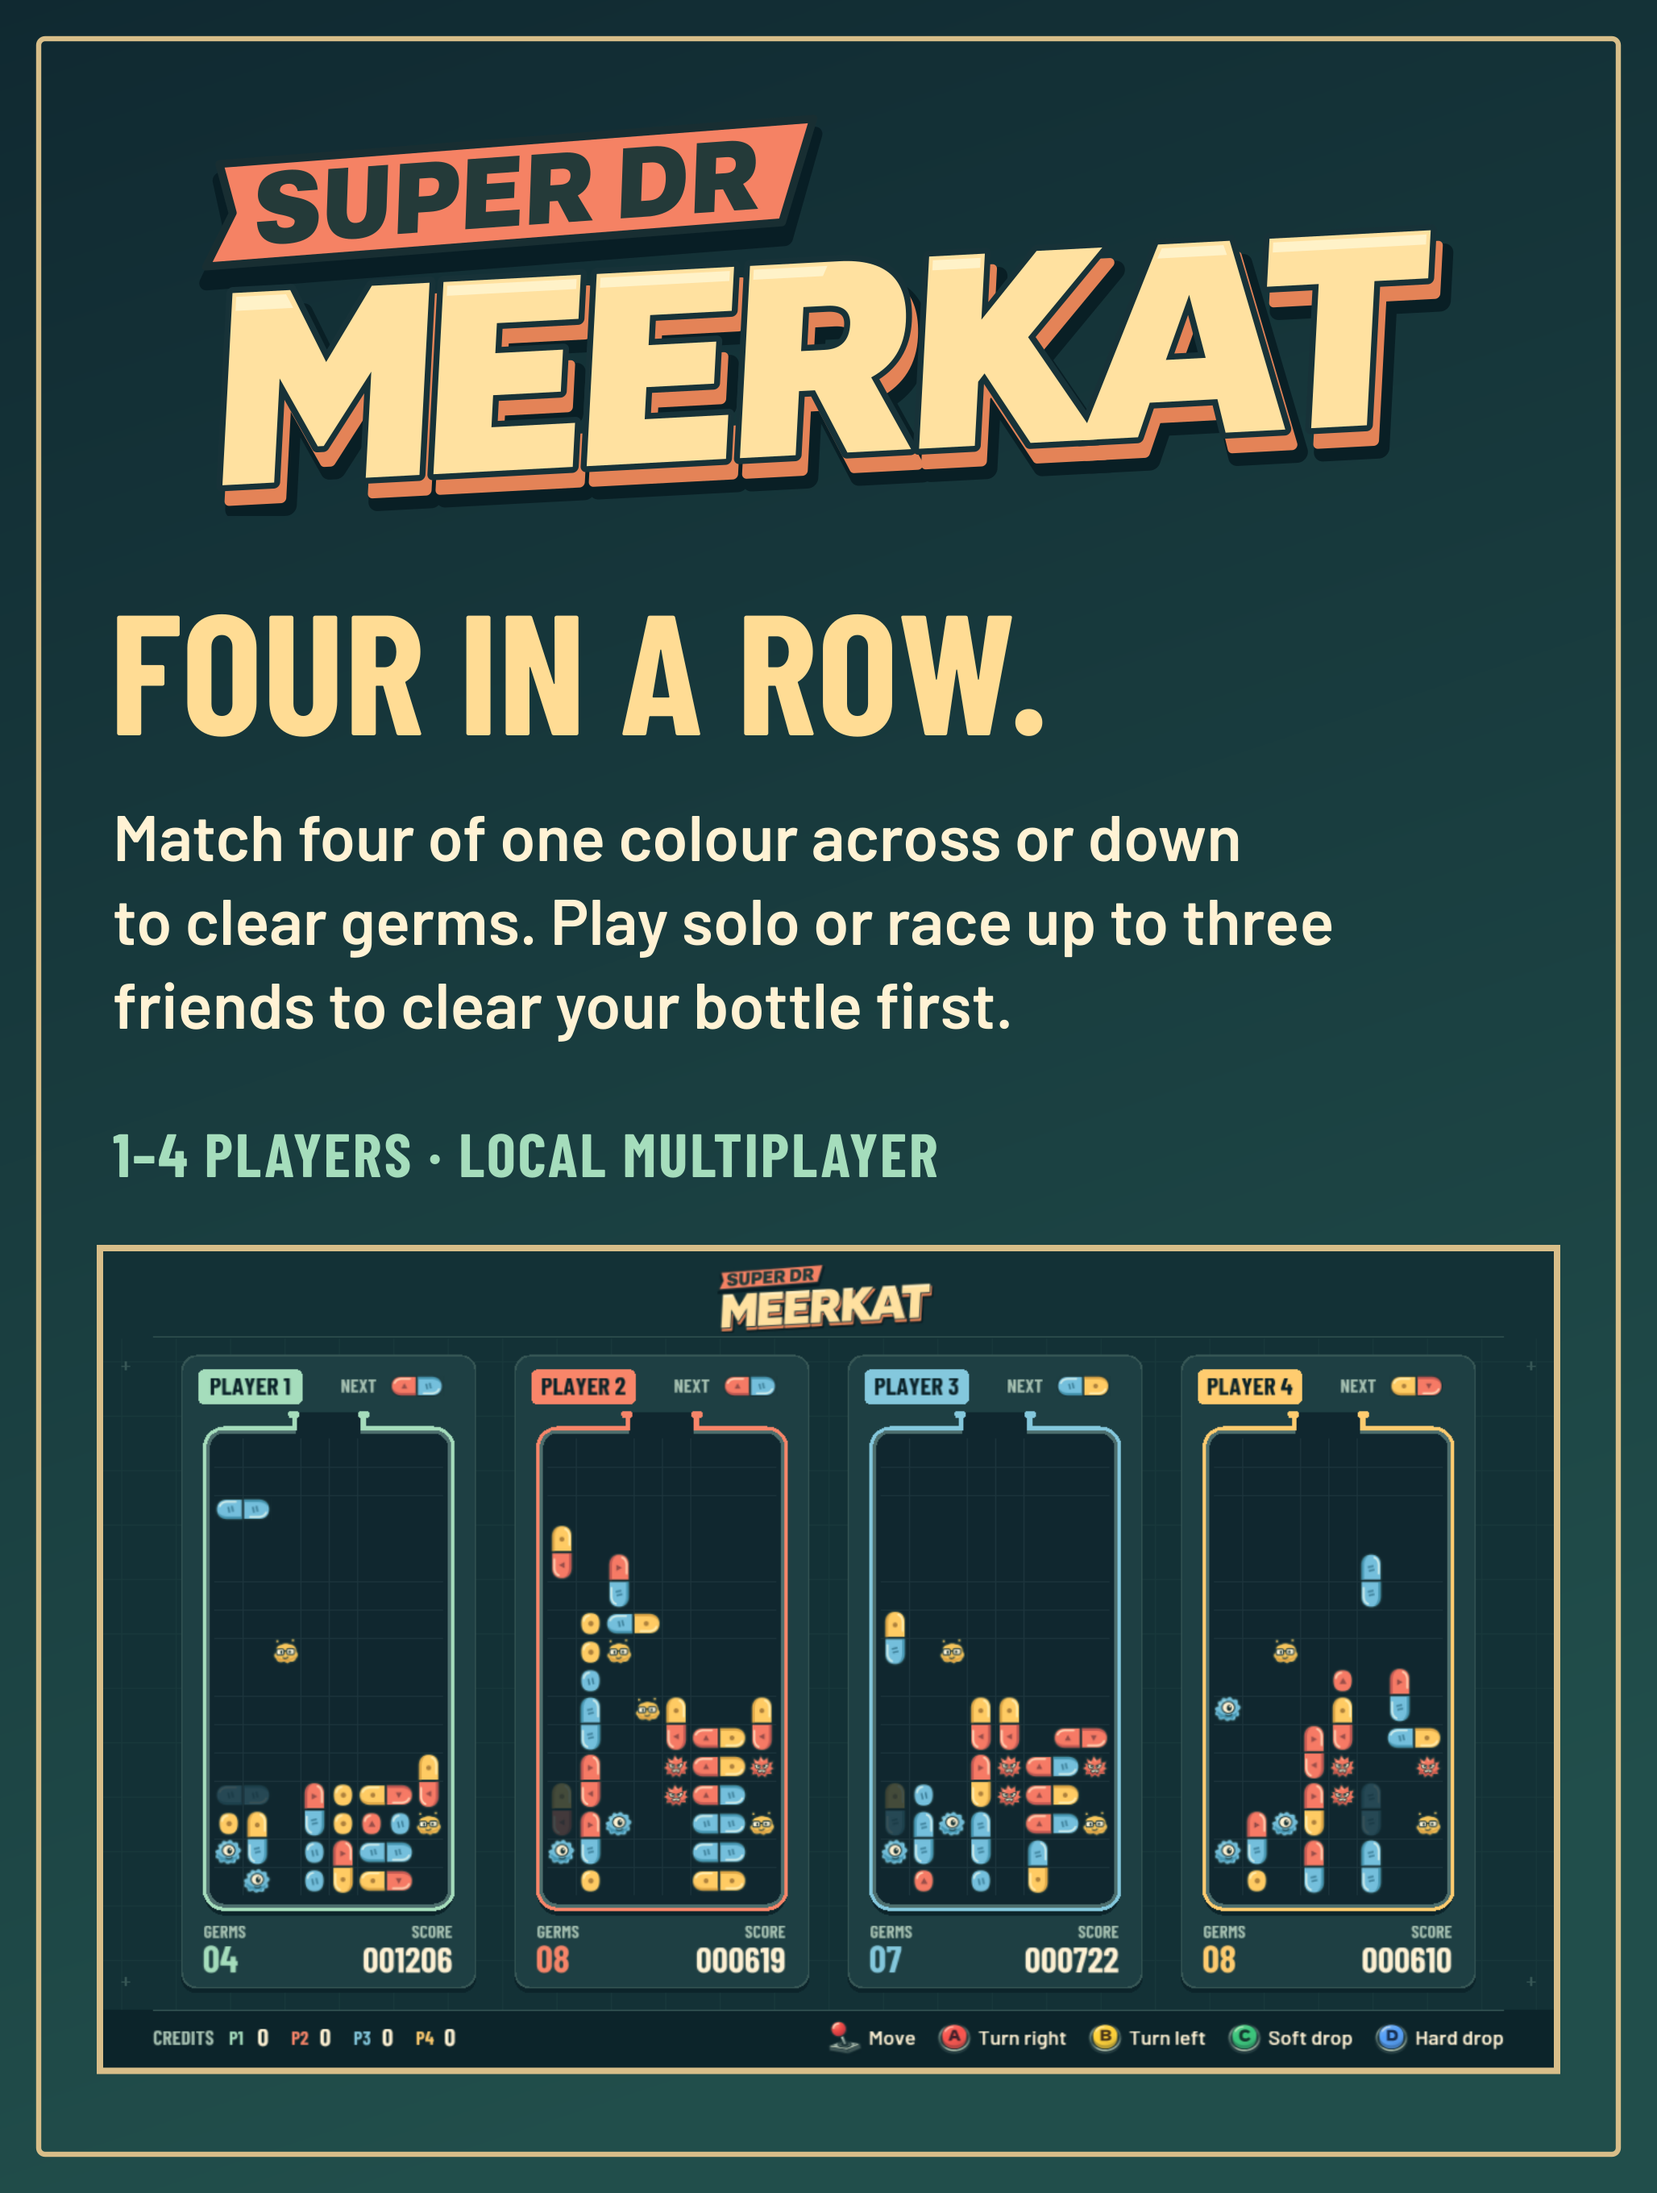
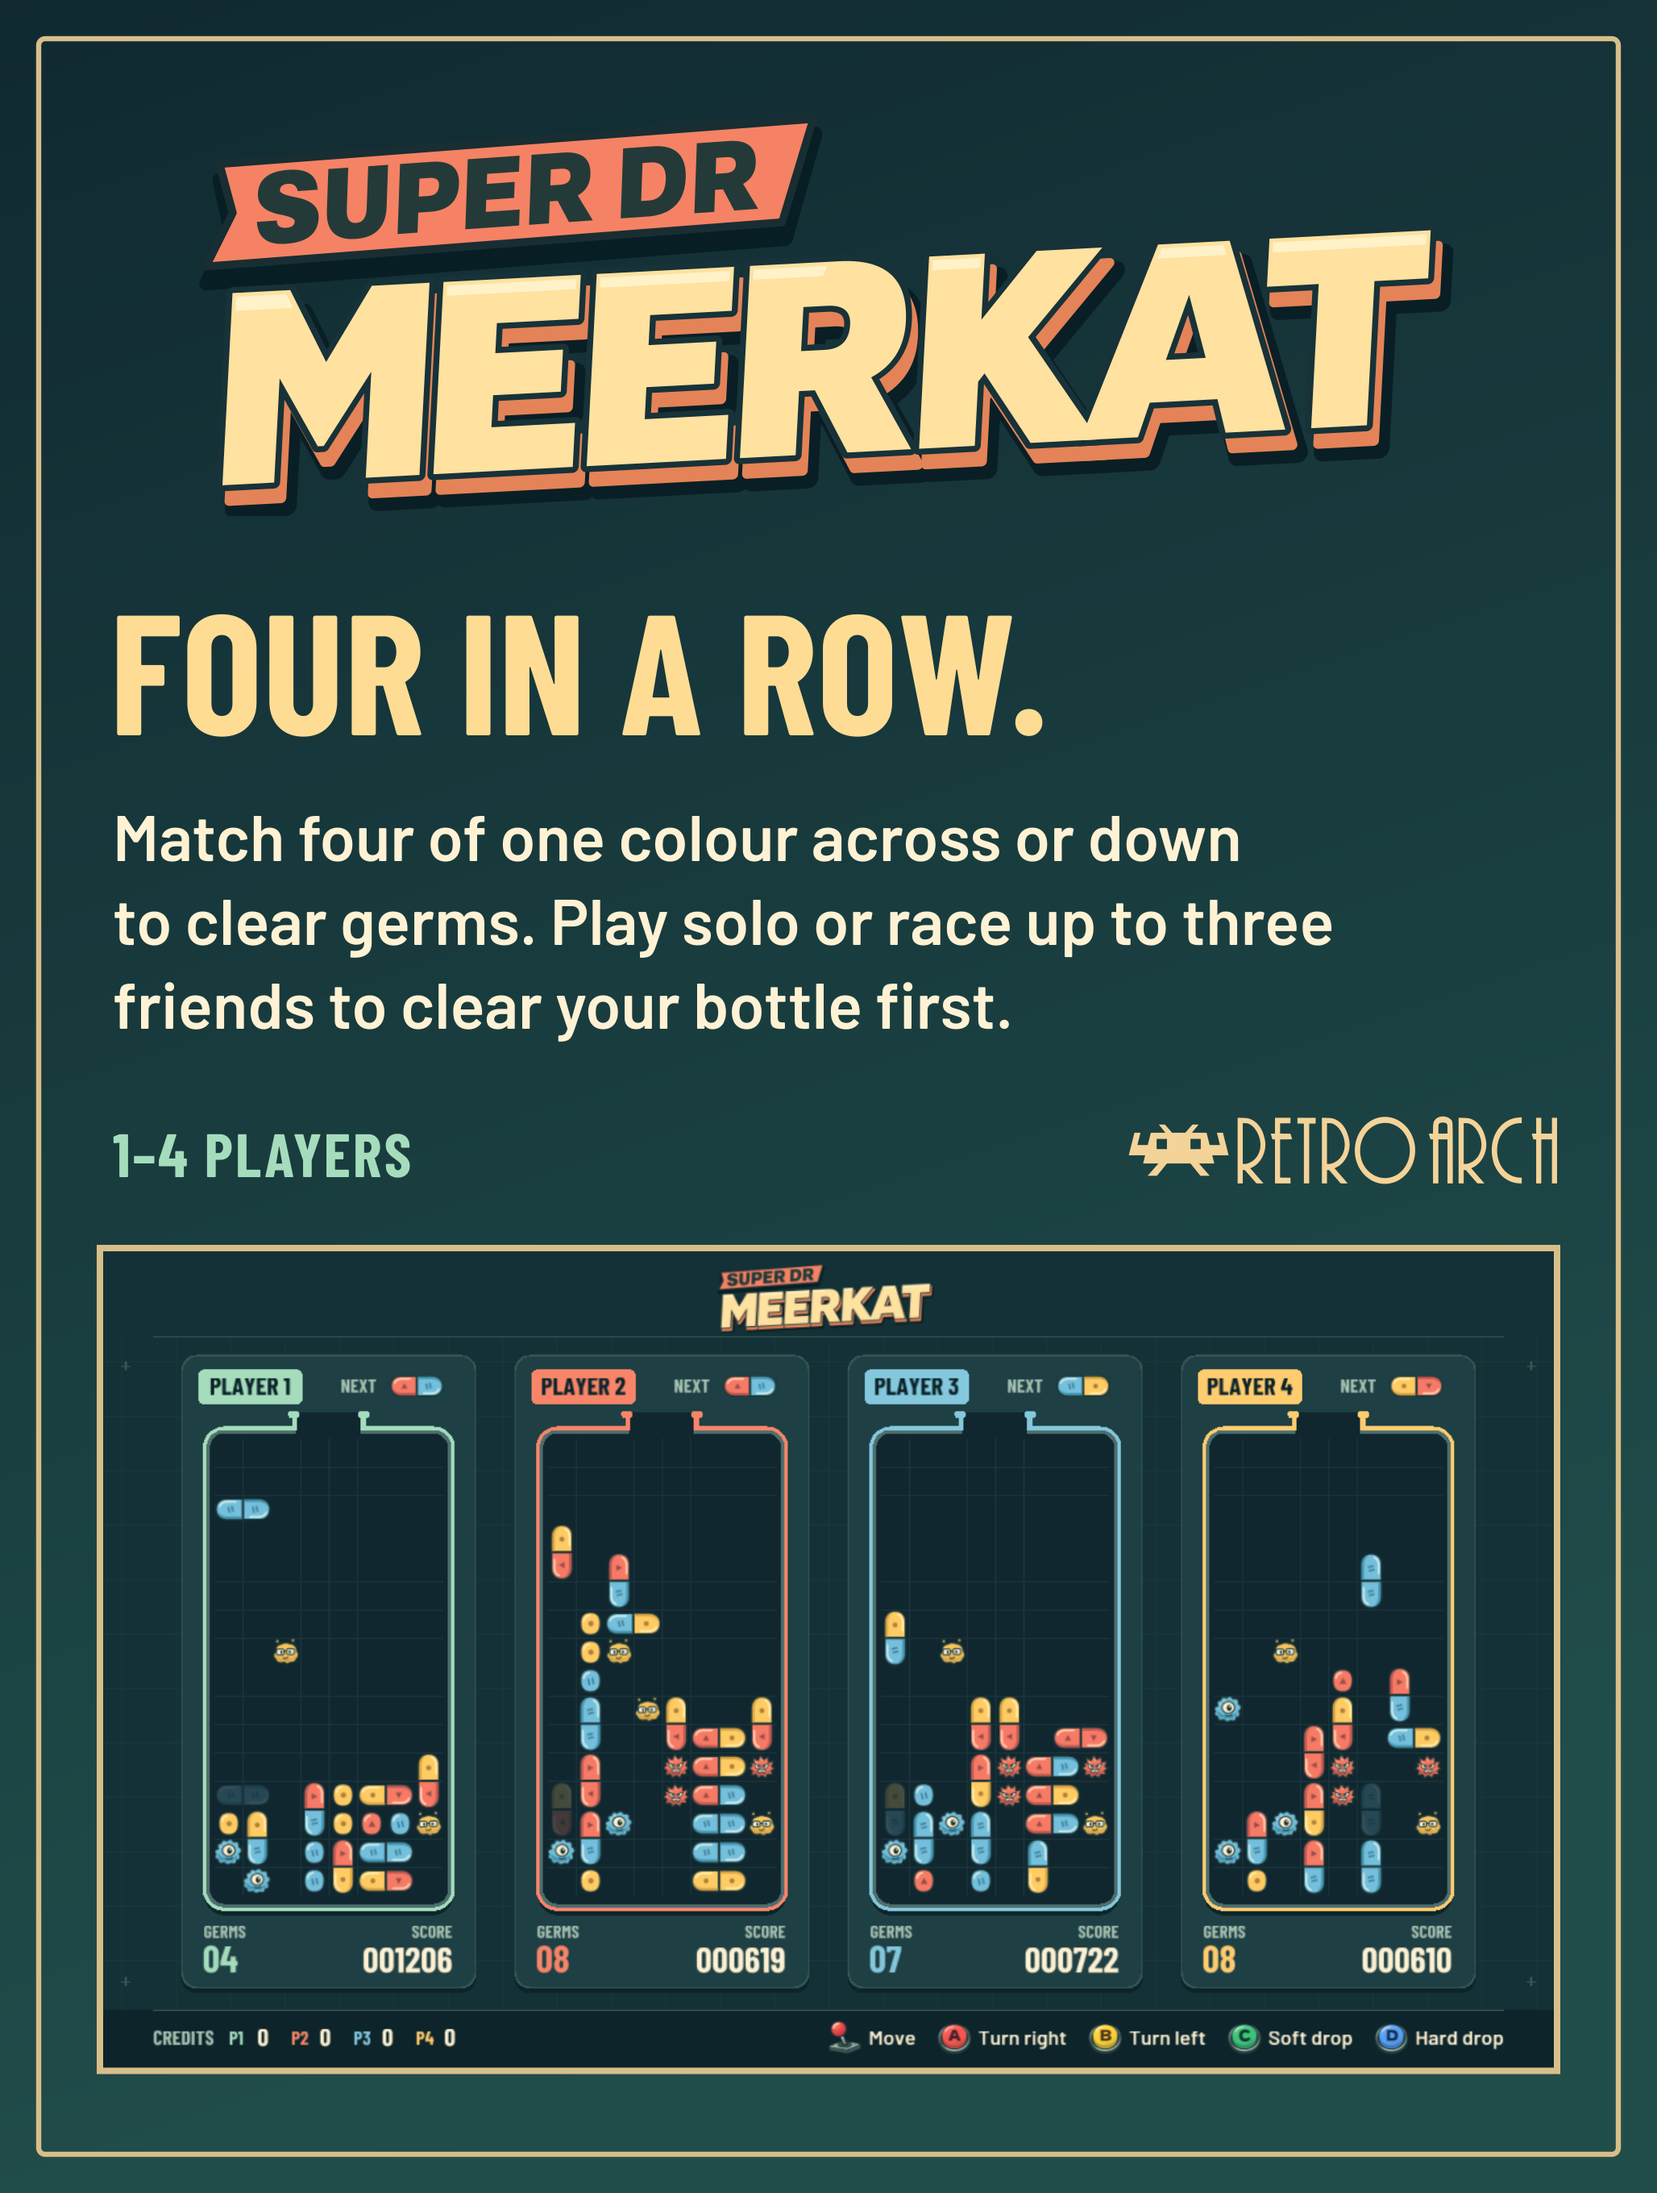
Add RetroArch branding to the box art

Changed region(s): [[0.2802, 0.5, 0.5603, 0.5625], [0.6848, 0.5, 0.9339, 0.5625]]

diff --git a/.artwork/README.md b/.artwork/README.md
@@ -5,3 +5,5 @@ For EmulationStation, use the [3D box](box-3d.png) or [box front](box-front.png)
 The [back](box-back.png), [spine](box-spine.png) and front fit together in the [full box texture](box-texture.png). The [creator credit](credit-courtney-pitcher.png) has a transparent background. The [meerkat icon](meerkat-icon.svg) uses `currentColor` for themes.
 
 The [vector originals](../assets/source/artwork/) use the game’s sprites and lettering. To regenerate the images, run `python3 tools/render_artwork.py` from the repository root with `rsvg-convert` and Pillow installed. [License](../LICENSE)
+
+The box uses a single-colour version of the RetroArch logo. [Original invader](https://github.com/libretro/RetroArch/blob/d58394b4e62a01c02695616abe38bbd5e5e07847/media/retroarch-vector_invader-only.svg) · [Original lettering](https://github.com/libretro/RetroArch/blob/d58394b4e62a01c02695616abe38bbd5e5e07847/media/retroarch_text.svg)
